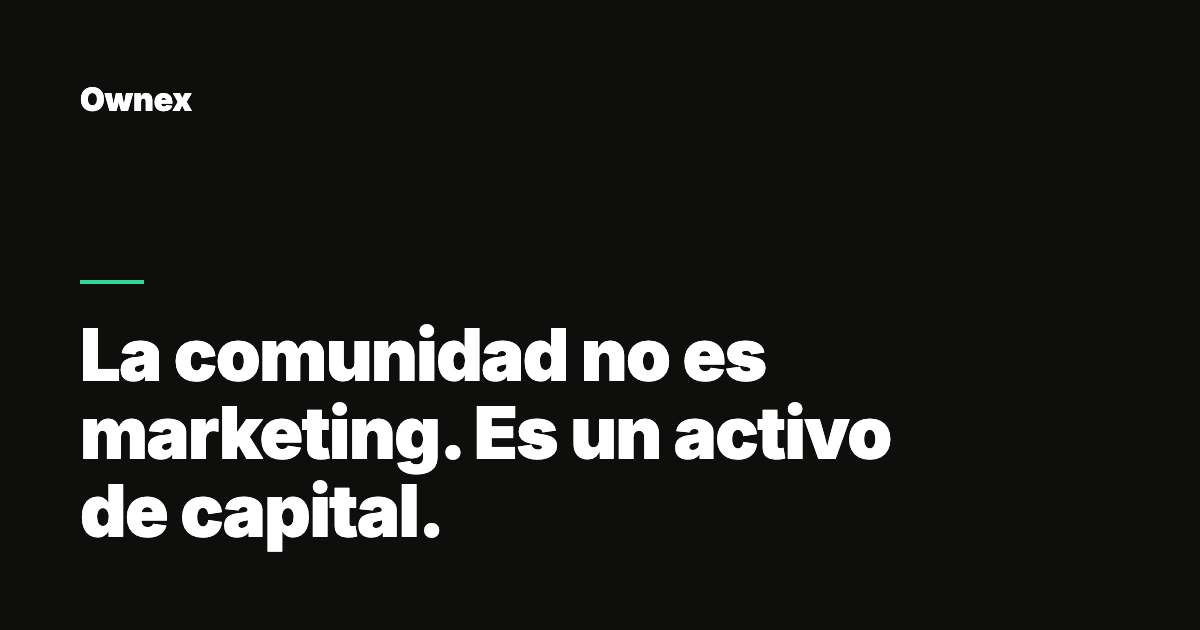
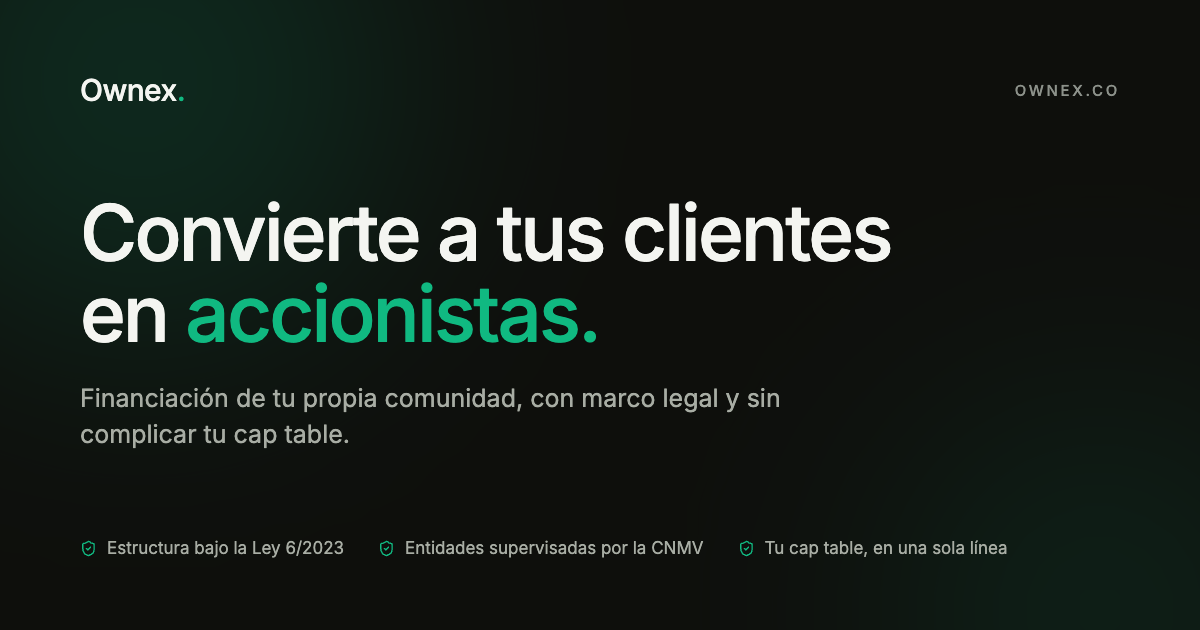
og: regenera la tarjeta de compartir con el sistema actual
La que se estaba compartiendo desde agosto tenia cuatro cosas mal a la vez:

  1. El titular era copy RETIRADO. Decia "La comunidad no es marketing. Es
     un activo de capital.", la redaccion que la tesis abandono el 19/08 por
     repetir el giro del hero. O sea que el primer contacto con la marca
     (WhatsApp, LinkedIn, Slack) ensenaba una frase que ya no esta en la
     pagina.
  2. El wordmark iba sin el punto.
  3. La fuente no cargaba: pedia `inter-latin-900-normal.woff2`, que no
     existe en public/fonts (hay 300, 400, 500 y 600), asi que salia en la
     grotesca de reserva del sistema. Y el peso 900 tampoco es de este
     sistema tipografico, los titulares van en 500.
  4. El filete era #34D399, el verde que se retiro como acento en reposo el
     25/08 precisamente por resplandecer.

Existia el HTML fuente pero no la forma de convertirlo, que es como se quedo
cuatro semanas por detras del copy. Ahora es `npm run og`, sin anadir ni una
dependencia: usa el `puppeteer-core` que ya venia con lighthouse y el Chrome
instalado en la maquina. No entra en `npm run build` a proposito, porque la
tarjeta cambia cuando cambia el mensaje, no en cada despliegue.

Se queda en oscuro y no en el blanco del hero: las tarjetas de enlace se ven
sobre el fondo claro de un feed, y una tarjeta blanca sobre fondo blanco no
tiene borde.

Se borra tambien `public/sectores/`, que estaba vacia: las fotos pasan a
[…]

diff --git a/scripts/assets/og-image.html b/scripts/assets/og-image.html
@@ -2,22 +2,158 @@
 <html lang="es">
   <head>
     <meta charset="utf-8" />
+    <!--
+      FUENTE DE `public/og-image.png`. Se regenera con `npm run og`.
+
+      REHECHA EL 27/08/2026, Y NO ERA UN RETOQUE. La tarjeta que se estaba
+      compartiendo desde agosto tenia cuatro cosas mal a la vez:
+
+        1. El TITULAR era copy retirado. Decia "La comunidad no es marketing. Es
+           un activo de capital.", que es la redaccion que la seccion de tesis
+           abandono el 19-ago por repetir el giro del hero. O sea que el primer
+           contacto con la marca (WhatsApp, LinkedIn, Slack) enseñaba una frase
+           que ya no esta en ningun sitio de la pagina.
+        2. El WORDMARK iba sin punto. La marca es "Ownex." con el punto en
+           acento; sin el no es el wordmark, es el nombre escrito.
+        3. La FUENTE no cargaba. Pedia `inter-latin-900-normal.woff2`, un fichero
+           que no existe en `public/fonts` (hay 300, 400, 500 y 600), asi que la
+           tarjeta salia en la grotesca de reserva del sistema. Ademas el peso
+           900 no es de este sistema tipografico: los titulares van en 500.
+        4. El FILETE era `#34D399`, el verde brillante que se retiro como acento
+           en reposo el 25/08 precisamente por resplandecer.
+
+      Se queda en OSCURO y no en el blanco del hero, a proposito: las tarjetas de
+      enlace se ven sobre el fondo claro de un feed o de un chat, y una tarjeta
+      blanca sobre fondo blanco no tiene borde. El `#0E0F0C` es el oscuro real de
+      la marca (el de `.theme-dark`), no el `#0A0B0C` frio que se retiro.
+    -->
     <style>
-      @font-face { font-family: "Inter"; font-weight: 900; src: url("../../public/fonts/inter-latin-900-normal.woff2") format("woff2"); }
-      @font-face { font-family: "Inter"; font-weight: 400; src: url("../../public/fonts/inter-latin-400-normal.woff2") format("woff2"); }
+      @font-face {
+        font-family: "Inter";
+        font-weight: 400;
+        font-style: normal;
+        src: url("../../public/fonts/inter-latin-400-normal.woff2") format("woff2");
+      }
+      @font-face {
+        font-family: "Inter";
+        font-weight: 500;
+        font-style: normal;
+        src: url("../../public/fonts/inter-latin-500-normal.woff2") format("woff2");
+      }
+
       * { margin: 0; padding: 0; box-sizing: border-box; }
-      body { width: 1200px; height: 630px; background: #0e0f0c; font-family: Inter, system-ui, sans-serif;
-             display: flex; flex-direction: column; justify-content: space-between; padding: 80px; }
-      .wordmark { font-size: 32px; font-weight: 900; color: #ffffff; }
-      h1 { font-size: 72px; line-height: 78px; font-weight: 900; letter-spacing: -0.02em; color: #ffffff; max-width: 900px; }
-      .rule { width: 64px; height: 4px; background: #34D399; margin-bottom: 32px; }
+
+      body {
+        width: 1200px;
+        height: 630px;
+        background: #0e0f0c;
+        font-family: Inter, system-ui, sans-serif;
+        color: #f4f5f1;
+        display: flex;
+        flex-direction: column;
+        justify-content: space-between;
+        padding: 72px 80px;
+        position: relative;
+        overflow: hidden;
+      }
+
+      /*
+        La misma aurora de la seccion de tesis, quieta: dos manchas muy grandes,
+        muy desenfocadas y casi transparentes. Sobre 1200x630 planos, es lo que
+        evita que la tarjeta se lea como un rectangulo negro impreso.
+      */
+      .aurora {
+        position: absolute;
+        border-radius: 9999px;
+        background: #10b981;
+        filter: blur(120px);
+      }
+      .aurora-a { width: 520px; height: 520px; top: -180px; left: -120px; opacity: 0.16; }
+      .aurora-b { width: 420px; height: 420px; right: -110px; bottom: -190px; opacity: 0.11; }
+
+      .row { position: relative; display: flex; align-items: center; justify-content: space-between; }
+
+      .wordmark { font-size: 30px; font-weight: 500; letter-spacing: -0.02em; color: #f4f5f1; }
+      .wordmark span { color: #10b981; }
+
+      .eyebrow {
+        font-size: 15px;
+        font-weight: 500;
+        text-transform: uppercase;
+        letter-spacing: 0.18em;
+        color: #8c918a;
+      }
+
+      .block { position: relative; }
+
+      /* La escala real de `.display-hero`: peso 500, tracking -0.035em, interlineado 1.03. */
+      h1 {
+        font-size: 78px;
+        line-height: 1.03;
+        font-weight: 500;
+        letter-spacing: -0.035em;
+        max-width: 880px;
+      }
+      h1 span { color: #10b981; }
+
+      p.lede {
+        margin-top: 26px;
+        font-size: 25px;
+        line-height: 1.45;
+        font-weight: 300;
+        color: #a8ada4;
+        max-width: 760px;
+      }
+
+      /* Las mismas tres pruebas regulatorias que lleva el hero desde el 26/08. */
+      ul { position: relative; display: flex; gap: 34px; list-style: none; }
+      li { display: flex; align-items: center; gap: 10px; font-size: 17px; color: #a8ada4; }
+      li svg { flex: none; }
     </style>
   </head>
   <body>
-    <p class="wordmark">Ownex</p>
-    <div>
-      <div class="rule"></div>
-      <h1>La comunidad no es marketing. Es un activo de capital.</h1>
+    <div class="aurora aurora-a"></div>
+    <div class="aurora aurora-b"></div>
+
+    <div class="row">
+      <p class="wordmark">Ownex<span>.</span></p>
+      <!--
+        El dominio y no una prueba regulatoria: las tres pruebas ya van abajo, y
+        repetirlas arriba solo gastaba la esquina. En una tarjeta compartida el
+        dominio es el dato que le falta a quien la recibe.
+      -->
+      <p class="eyebrow">ownex.co</p>
     </div>
+
+    <div class="block">
+      <h1>Convierte a tus clientes en <span>accionistas.</span></h1>
+      <p class="lede">
+        Financiación de tu propia comunidad, con marco legal y sin complicar tu cap table.
+      </p>
+    </div>
+
+    <ul>
+      <li>
+        <svg width="17" height="17" viewBox="0 0 24 24" fill="none" stroke="#10b981" stroke-width="2" stroke-linecap="round" stroke-linejoin="round">
+          <path d="M20 13c0 5-3.5 7.5-7.66 8.95a1 1 0 0 1-.67-.01C7.5 20.5 4 18 4 13V6a1 1 0 0 1 1-1c2 0 4.5-1.2 6.24-2.72a1.17 1.17 0 0 1 1.52 0C14.51 3.81 17 5 19 5a1 1 0 0 1 1 1z" />
+          <path d="m9 12 2 2 4-4" />
+        </svg>
+        Estructura bajo la Ley 6/2023
+      </li>
+      <li>
+        <svg width="17" height="17" viewBox="0 0 24 24" fill="none" stroke="#10b981" stroke-width="2" stroke-linecap="round" stroke-linejoin="round">
+          <path d="M20 13c0 5-3.5 7.5-7.66 8.95a1 1 0 0 1-.67-.01C7.5 20.5 4 18 4 13V6a1 1 0 0 1 1-1c2 0 4.5-1.2 6.24-2.72a1.17 1.17 0 0 1 1.52 0C14.51 3.81 17 5 19 5a1 1 0 0 1 1 1z" />
+          <path d="m9 12 2 2 4-4" />
+        </svg>
+        Entidades supervisadas por la CNMV
+      </li>
+      <li>
+        <svg width="17" height="17" viewBox="0 0 24 24" fill="none" stroke="#10b981" stroke-width="2" stroke-linecap="round" stroke-linejoin="round">
+          <path d="M20 13c0 5-3.5 7.5-7.66 8.95a1 1 0 0 1-.67-.01C7.5 20.5 4 18 4 13V6a1 1 0 0 1 1-1c2 0 4.5-1.2 6.24-2.72a1.17 1.17 0 0 1 1.52 0C14.51 3.81 17 5 19 5a1 1 0 0 1 1 1z" />
+          <path d="m9 12 2 2 4-4" />
+        </svg>
+        Tu cap table, en una sola línea
+      </li>
+    </ul>
   </body>
 </html>
